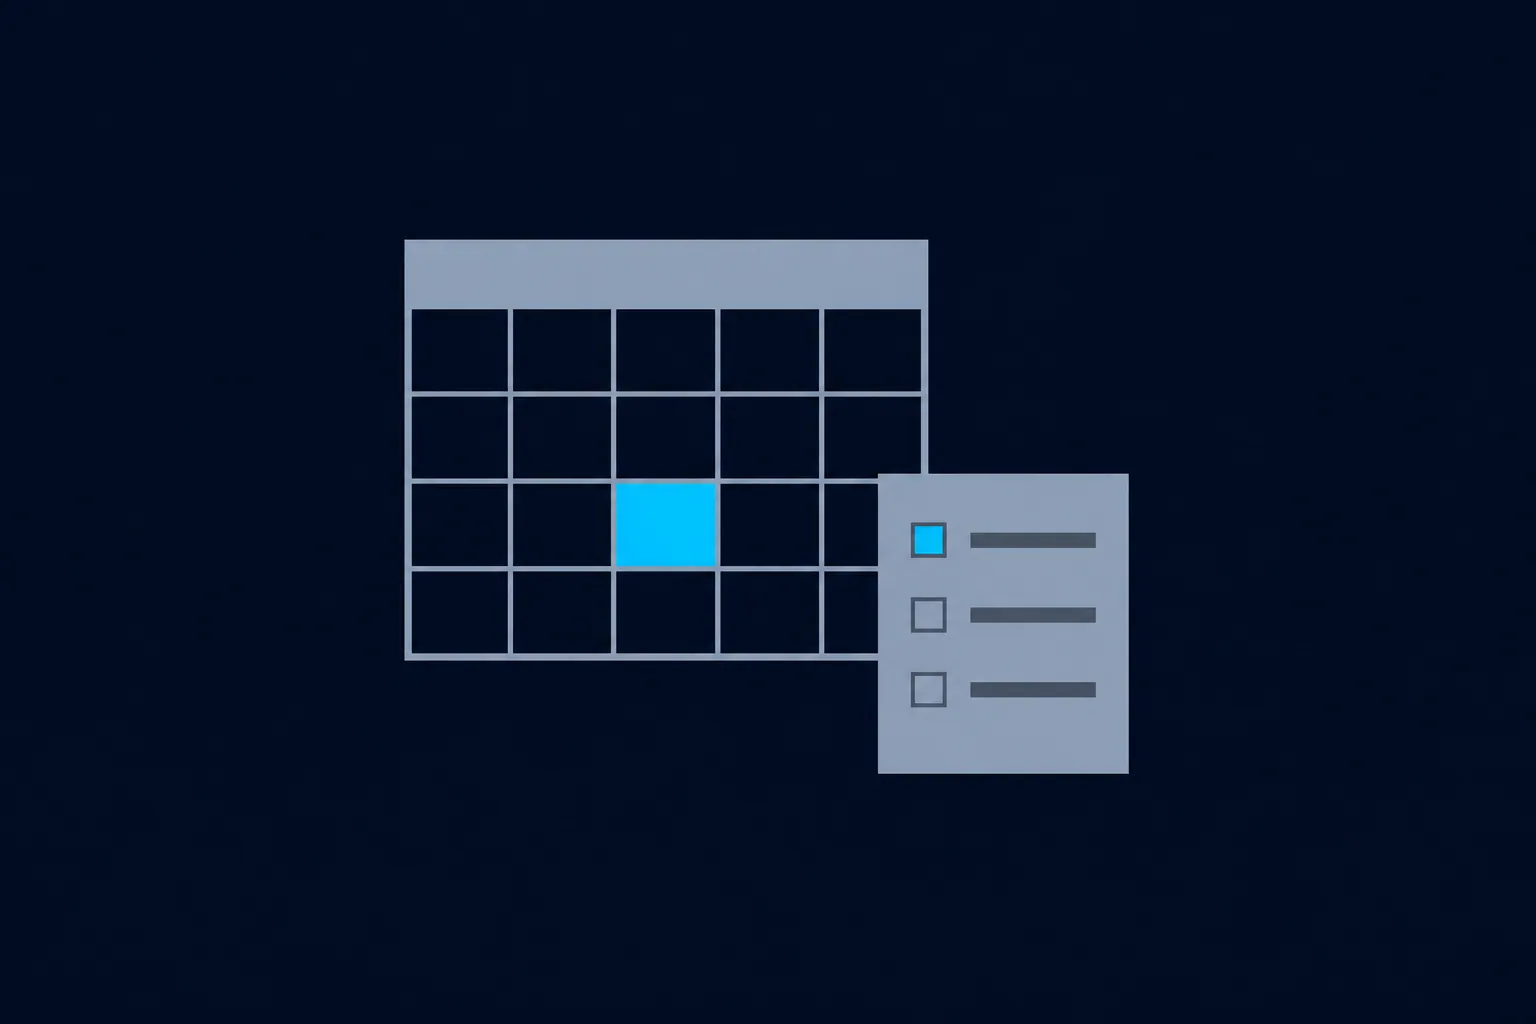
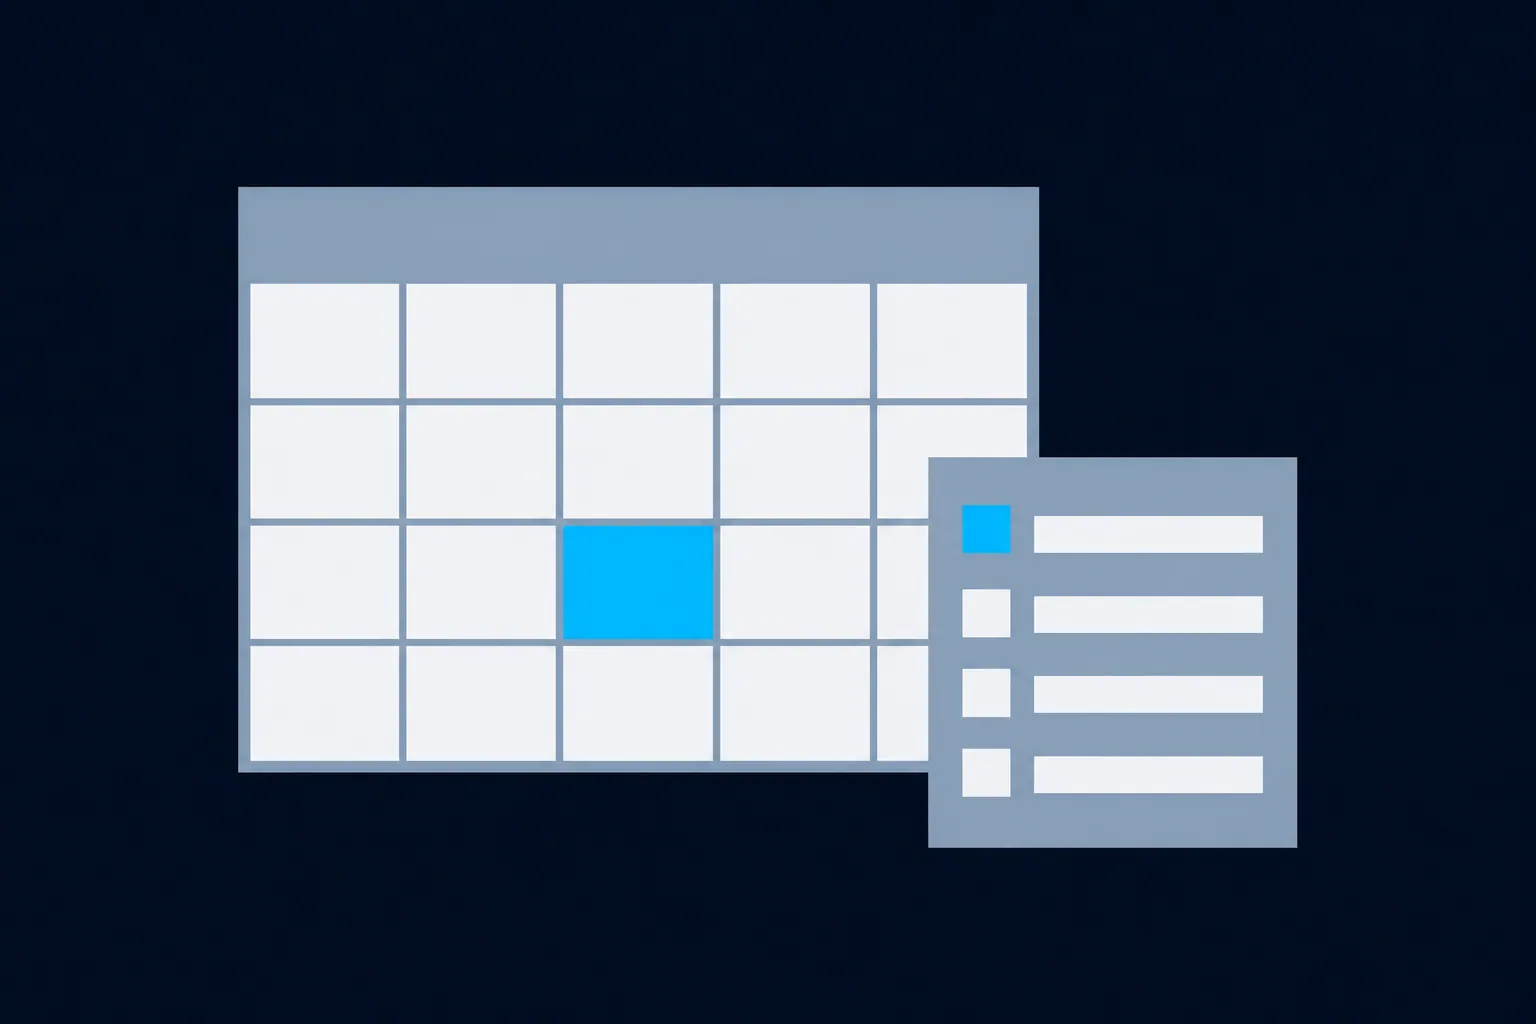
Revert the white hero; fix the darkness in the artwork instead
Owner: "no, simply white hero doesnt work.... rething that." Right, and it is
reverted on all six service pages. A white band starting directly under a dark
header carrying white logo artwork reads as two unrelated slabs, and it gives
away the thing that makes the site look like itself.

The obvious dark alternative is also out, and the numbers are why. Hero on
--card and the artwork panel on --well measure 1.06 and 1.15 against --canvas.
That is invisible. This palette has no usable mid-tone, so "make the section
slightly lighter" is not a move available here, and pretending otherwise would
have broken the one-canvas rule for nothing.

What was actually dark was the artwork. Measured as the share of pixels above
0.20 luminance, four of six heroes were 82-92% empty near-black, and the two
that read fine were the two near 38%:

  meta          14.5% -> 41.8%
  seo           18.7% -> 53.6%
  konsultacijas  9.2% -> 36.8%
  automation     8.1% -> 25.2%
  video         38.0%    untouched, already right
  pakalpojumi   37.7%    untouched, already right

Both of the untouched ones kept the prompts that produced the files on disk,
so --force still reproduces them.

Two failure modes, both hit. Asking to "FILL the frame, run right up to the
edges, cropped on more than one side" produced 73.9%: a crop so tight the
phone became abstract grey blocks, with rounded corners the square-geometry
decision forbids. I stopped that run after one image rather than let it do the
[…]

diff --git a/src/css/style.css b/src/css/style.css
@@ -828,7 +828,7 @@ main > .sec:first-child, main > section:first-child { border-top: 0; }
   gap: clamp(32px, 4.5vw, 72px);
   align-items: center;
 }
-.hero-media { margin: 0; border: 1px solid var(--line); background: #020d1c; }
+.hero-media { margin: 0; border: 1px solid var(--line-strong); background: var(--canvas); }
 .hero-media img { display: block; width: 100%; height: auto; }
 @media (max-width: 980px) {
   .page-hero--media .hero-grid2 { grid-template-columns: 1fr; gap: clamp(28px, 4vw, 40px); }

diff --git a/src/pages/pakalpojumi.html b/src/pages/pakalpojumi.html
@@ -4,7 +4,7 @@ title: "Digitālā mārketinga pakalpojumi | Mārketinga Skola"
 description: "Meta un Instagram reklāma, video reklāma, sociālo mediju mārketings, mārketinga konsultācijas, SEO un praktiski kursi — viena komanda, kas atbild par rezultātu."
 permalink: "/pakalpojumi/"
 ---
-<section class="page-hero page-hero--media paper">
+<section class="page-hero page-hero--media">
   <div class="container">
     <div class="hero-grid2">
       <div>

diff --git a/src/pages/seo-pakalpojumi.html b/src/pages/seo-pakalpojumi.html
@@ -7,7 +7,7 @@ crumb: { label: "Pakalpojumi", url: "/pakalpojumi/" }
 image: "/img/gen/seo-mekletaja-motivs.webp"
 keywords: ["SEO pakalpojumi", "SEO optimizācija", "SEO speciālists", "SEO audits", "tehniskais SEO", "SEO izmaksas"]
 ---
-<section class="page-hero page-hero--media paper">
+<section class="page-hero page-hero--media">
   <div class="container">
     <div class="hero-grid2">
       <div>

diff --git a/src/pages/facebook-reklama.html b/src/pages/facebook-reklama.html
@@ -5,7 +5,7 @@ description: "Pārvaldītas Meta reklāmas: konts, auditorijas, kreatīvi, A/B t
 permalink: "/facebook-reklama/"
 crumb: { label: "Pakalpojumi", url: "/pakalpojumi/" }
 ---
-<section class="page-hero page-hero--media paper">
+<section class="page-hero page-hero--media">
   <div class="container">
     <div class="hero-grid2">
       <div>

diff --git a/src/pages/marketinga-konsultacijas.html b/src/pages/marketinga-konsultacijas.html
@@ -13,7 +13,7 @@ crumb: { label: "Pakalpojumi", url: "/pakalpojumi/" }
 {% set o30 = booking.consultation.options[1] %}
 {% set bundle = booking.consultation.options[2] %}
 
-<section class="page-hero page-hero--media paper">
+<section class="page-hero page-hero--media">
   <div class="container">
     <div class="hero-grid2">
       <div>

diff --git a/src/pages/video-reklama.html b/src/pages/video-reklama.html
@@ -7,7 +7,7 @@ crumb: { label: "Pakalpojumi", url: "/pakalpojumi/" }
 image: "/img/2023/11/Screenshot.png"
 ---
 {% from "form.njk" import form with context %}
-<section class="page-hero page-hero--media paper">
+<section class="page-hero page-hero--media">
   <div class="container">
     <div class="hero-grid2">
       <div>

diff --git a/src/pages/ai-un-automatizacijas.html b/src/pages/ai-un-automatizacijas.html
@@ -8,7 +8,7 @@ image: "/img/2024/07/Untitled-design-4.png"
 ---
 {% from "form.njk" import form with context %}
 
-<section class="page-hero page-hero--media paper">
+<section class="page-hero page-hero--media">
   <div class="container">
     <div class="hero-grid2">
       <div>

diff --git a/CLAUDE.md b/CLAUDE.md
@@ -1942,6 +1942,62 @@ Both forms are now written out, with a comment saying why.
 Contrast measured on all six after the fix: h1 17.41:1, body 9.58:1, chip
 label 5.20:1, chip link 6.88:1. Nothing under 4.5.
 
+## A dark motif needs ~35-45% ink, and that is measurable (9 Sep 2026)
+
+Owner: *"hero section is also too dark now; both before and next to generated
+images."* Then, on the obvious fix: *"no, simply white hero doesnt work.
+rething that."* Both correct. What follows is the measured answer, so nobody
+argues this one by eye again.
+
+**A white hero was tried and rejected.** It reverted the same day. The header
+directly above is dark and carries white logo artwork, so a white band
+starting immediately beneath it reads as two unrelated slabs rather than one
+page, and it gives away the thing that makes the site look like itself.
+
+**Stepping the background does not work either, and the numbers say why.**
+Hero on `--card` and the artwork panel on `--well` give contrast ratios of
+**1.06** and **1.15** against `--canvas`. That is invisible. This palette has
+no usable mid-tone between near-black and white, so "make the section slightly
+lighter" is not an available move here. Do not try it again.
+
+**The darkness was the artwork being empty.** Measured as the share of pixels
+above 0.20 relative luminance:
+
+| Slot | Before | After |
+| --- | --- | --- |
+| `hero-video-reklama` | 38.0% | 38.0%, untouched, already right |
+| `hero-pakalpojumi` | 37.7% | 37.7%, untouched, already right |
+| `hero-seo-pakalpojumi` | 18.7% | 53.6% |
+| `hero-meta-reklama` | 14.5% | 41.8% |
+| `hero-konsultacijas` | 9.2% | 36.8% |
+| `hero-ai-automatizacijas` | 8.1% | 25.2% |
+
+**Line-and-bar subjects resist this and need different wording.** SEO and
+automation are diagrams, so their mass is in strokes rather than solids, and
+the first rebalanced pass moved them only to 21.0% and 20.3% while the
+object-based slots hit 37-42% straight away. Saying *"a SOLID slab, a filled
+rectangle, not an outline"*, with explicit sizes (*"each bar about a twelfth
+of the frame height"*), is what moved them. Automation still sits at 25.2%,
+which was accepted: the composition is dense where it matters and pushing
+further risks the 74% overshoot again.
+
+Four of six were 82-92% empty near-black. The two that read fine were the two
+near 38%. **Target 35-45%.** Below ~20% a motif reads as a dark hole with a
+small object floating in it, however good the object is.
+
+**The overshoot is as easy to hit as the undershoot.** A prompt saying "FILL
+the frame", "run right up to the edges", "cropped on more than one side"
+produced **73.9%**: a close-up so tight the phone became abstract grey blocks,
+and it brought back rounded corners, which the square-geometry decision
+forbids. The working language is a *mid-shot*: objects drawn large but WHOLE
+and readable, at most one lightly clipped by one edge, a modest dark margin
+around the group, and an explicit "every corner is square".
+
+**How to check, rather than squinting:** count pixels above 0.20 luminance
+with sharp and compare against the table. `npm run images --only=<id> --force`
+regenerates one slot. Existing approved motifs sit at 15-18%, which is why the
+whole set has always felt dark; raise them if they are ever redrawn.
+
 ## Service heroes carry artwork now (9 Sep 2026)
 
 Owner: *"for each service, in the hero section there should be a cool image...
